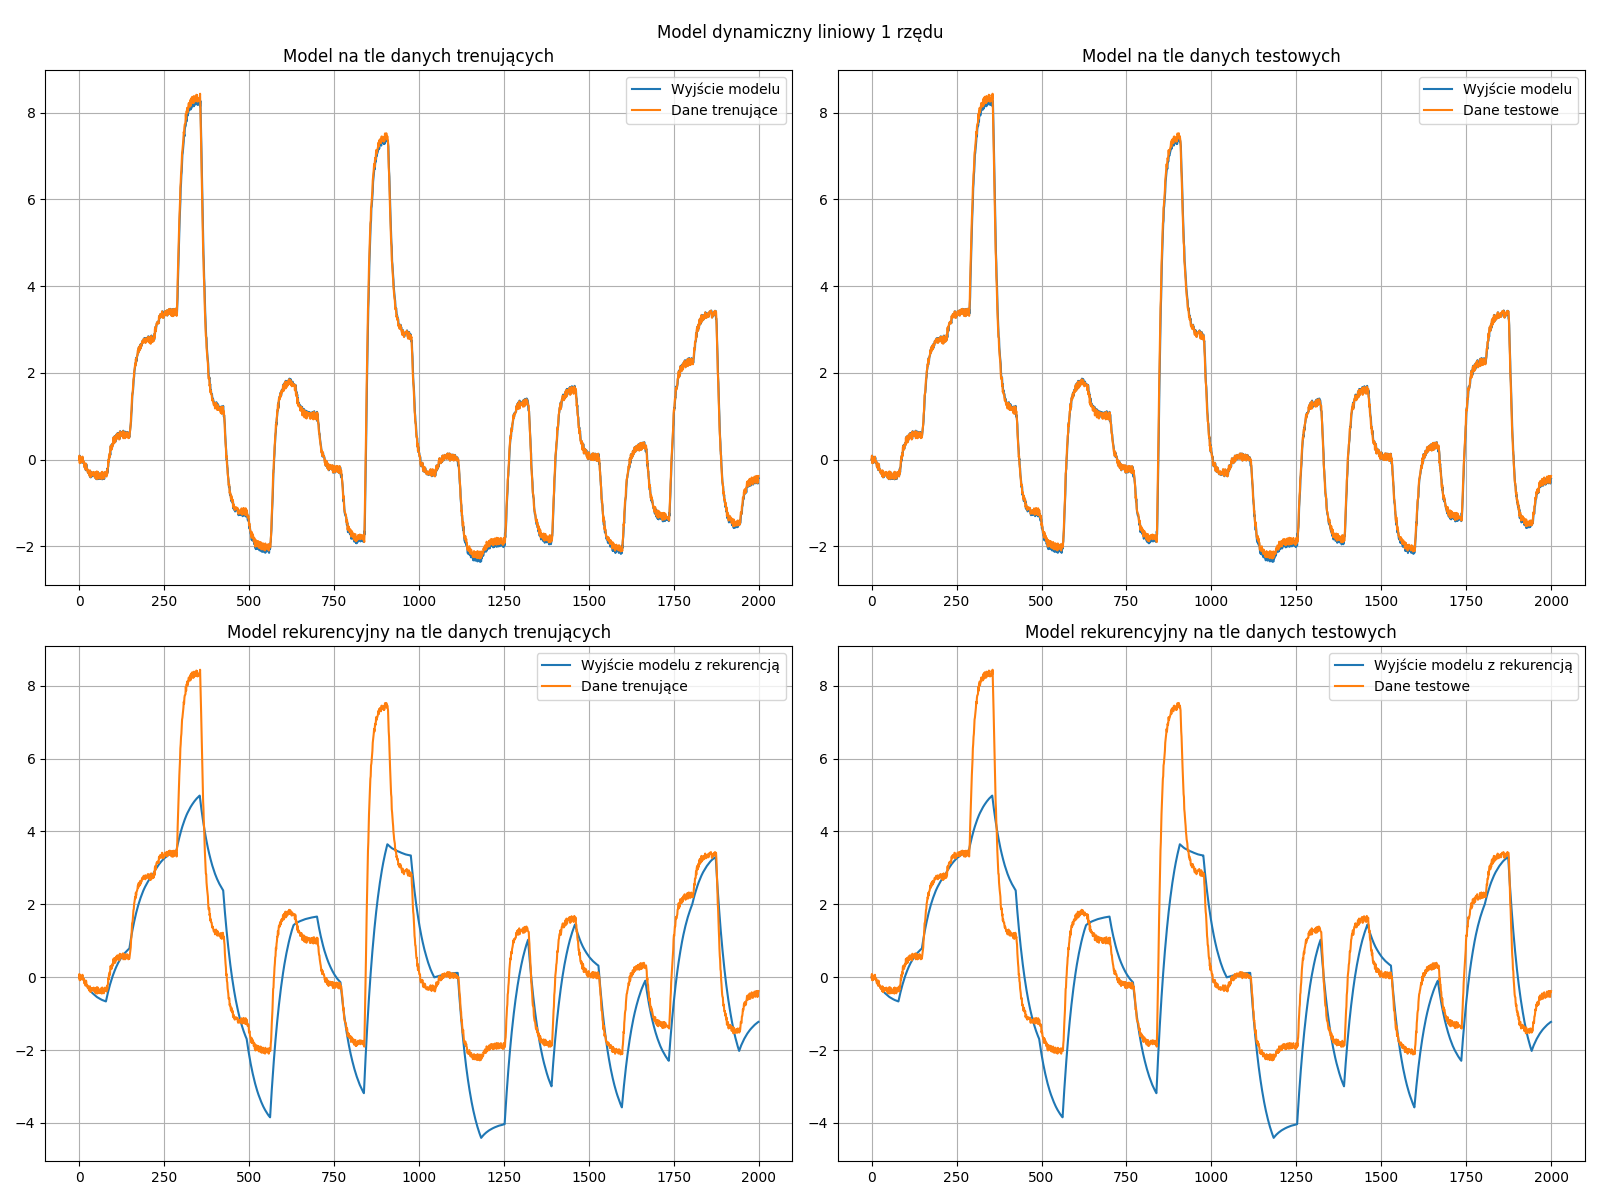
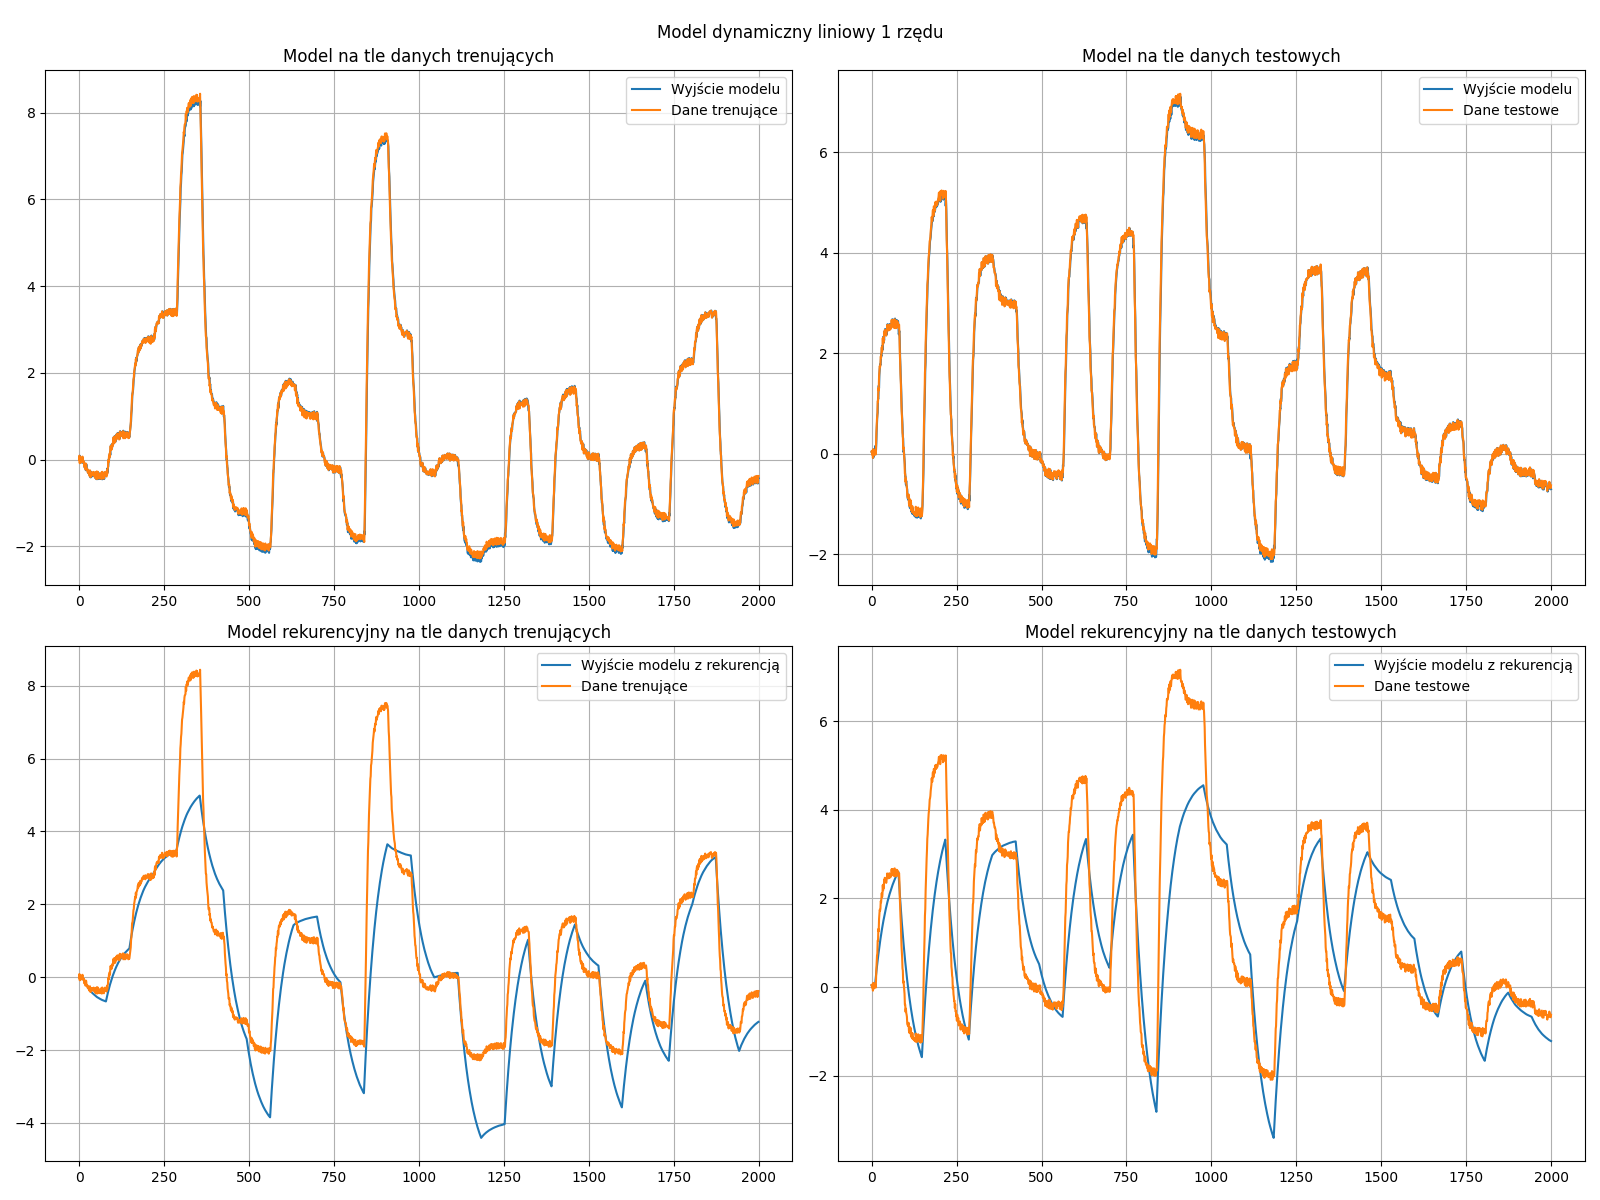
Fix mixing testing and training data

diff --git a/dynamic.py b/dynamic.py
@@ -9,8 +9,8 @@ data_test = pd.read_csv('data/danedynwer18.txt', delimiter=r"\s+", header=None, 
 
 u_data_train = data_train['U']
 y_data_train = data_train['Y']
-u_data_test = data_train['U']
-y_data_test = data_train['Y']
+u_data_test = data_test['U']
+y_data_test = data_test['Y']
 u_train = np.array(u_data_train)
 u_test = np.array(u_data_test)
 y_train = np.array(y_data_train)
@@ -241,31 +241,48 @@ def non_liner_dynamic(n_row, degree):
 
     return epsilon_train, epsilon_test, epsilon_train_rec, epsilon_test_rec 
 
-def calculate_non_linear_errors(n_row, degree):
-    results = {
-        'Degree': [], 
-        'Epsilon_train': [], 
-        'Epsilon_test': [],
-        'Epsilon_train_rec': [],
-        'Epsilon_test_rec': []}
-    for degree in range(1, degree + 1):
-        results['Degree'].append(degree)
-        epsilon_train, epsilon_test, epsilon_train_rec, epsilon_test_rec = non_liner_dynamic(n_row, degree)
-        results['Epsilon_train'].append(epsilon_train)
-        results['Epsilon_test'].append(epsilon_test)
-        results['Epsilon_train_rec'].append(epsilon_train_rec)
-        results['Epsilon_test_rec'].append(epsilon_test_rec)
-    df_results = pd.DataFrame(results)
-    return df_results
+def calculate_non_linear_errors():
+    # degrees = ['drugi', 'trzeci', 'czwarty', 'piąty', 'szósty']
+    degrees  = list(range(9, 10))
+    dynamic_orders = list(range(13, 30))
 
+    columns = pd.MultiIndex.from_product([degrees, dynamic_orders], names=['Stopień:', 'Rząd dyn.'])
+
+    index = pd.MultiIndex.from_product([['Ucz', 'Wer'], ['Bez rek.', 'Z rek.']], names=['Dane:', 'Typ:'])
+
+
+    df = pd.DataFrame(np.nan, index=index, columns=columns)
+    for stopien, rzad in df.columns:
+        n_row = rzad
+        # degree_mapping = {'drugi': 2, 'trzeci': 3, 'czwarty': 4, 'piąty': 5, 'szósty': 6}
+        # degree = degree_mapping[stopien]
+        degree = stopien
+        epsilon_train, epsilon_test, epsilon_train_rec, epsilon_test_rec = non_liner_dynamic(n_row, degree)
+        
+        df.loc[('Ucz', 'Bez rek.'), (stopien, rzad)] = epsilon_train
+        df.loc[('Ucz', 'Z rek.'), (stopien, rzad)] = epsilon_train_rec
+        df.loc[('Wer', 'Bez rek.'), (stopien, rzad)] = epsilon_test
+        df.loc[('Wer', 'Z rek.'), (stopien, rzad)] = epsilon_test_rec
+
+    return df.round(2)
+
+def highlight_df(df):
+    return df.style.apply(lambda x: ['background: lightblue' if x.name[0] == 'Ucz' else '' for i in x], axis=1)
+# plot_train_split()
+# plot_test_split()
 # linear_dynamic_1_degree()
 # linear_dynamic_2_degree()
 # linear_dynamic_3_degree()
-# df_results = calculate_dynamic_errors()
-# df_results = df_results.round(3)
-# print(df_results)
-# df_results.to_csv('results/dynamic_errors.csv', index=False)
+df_results = calculate_dynamic_errors()
+df_results = df_results.round(3)
+print(df_results)
+df_results.to_csv('results/dynamic_errors.csv', index=False)
 # print(non_liner_dynamic(3,3))
-print(non_liner_dynamic(10,10))
+# print(non_liner_dynamic(10,10))
 # plot_train_split()
 # plot_test_split()
+# print(calculate_non_linear_errors())
+print(non_liner_dynamic(15, 9))
+# df = calculate_non_linear_errors()
+# print(df)
+# df.to_csv('results/non_linear_dynamic_errors_9.csv')
